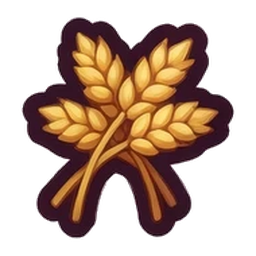
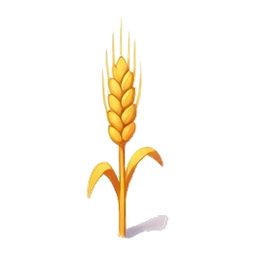
New hay chain: from a wheat sprout to rainbow hay, each step clearly different
Claude-Session: https://claude.ai/code/session_01897nNPNNgbcBnjh2hA5vTu

diff --git a/game.js b/game.js
@@ -463,7 +463,7 @@ const toastLayer = document.getElementById('toasts');
 // Flavor Names for the Tiers
 const NAMES = {
     'farm': ['🧪 Fertilizer', '🌱 Seed', '🌿 Sprout', '🍓 Strawberry', '🍅 Tomato', '🌽 Corn', '🥕 Carrot', '🥬 Cabbage', '🎃 Pumpkin', '🍉 Watermelon', '🍎 Golden Apple', '🌻 Giant Sun'],
-    'hay': ['🌾 Wheat', '🌱 Stalk', '🌾 Bundle', '🟨 Small Bale', '🟨 Medium Bale', '🟨 Large Bale', '🥞 Hay Stack', '🗼 Hay Tower', '🏭 Hay Silo', '⭐ Golden Hay', '✨ Magic Hay', '♾ Infinite Hay'],
+    'hay': ['🌱 Wheat Sprout', '🌾 Wheat Stalk', '🎀 Wheat Sheaf', '🟨 Hay Bale', '🟢 Round Bale', '🔶 Haystack', '🛒 Hay Cart', '🚜 Hay Wagon', '🌬 Windmill', '👑 Golden Hay', '🔮 Magic Hay', '🌈 Rainbow Hay'],
     'barn': ['🌿 Feed', '🥚 Egg', '🐤 Chick', '🐔 Chicken', '🐽 Piglet', '🐷 Pig', '🐮 Calf', '🐄 Cow', '🐴 Horse', '🦙 Alpaca', '🐂 Prize Bull', '🦄 Unicorn'],
     'fert': ['🍂 Fallen Leaf', '🍁 Leaf Pile', '🥕 Veggie Scraps', '🌱 Compost', '🪴 Rich Soil', '🍄 Mushroom', '✨ Basic Fert', '🌟 Quality Fert', '⚡ Speed-Gro', '💎 Deluxe Fert', '🔮 Magic Fert', '🌌 Iridium Fert'],
     'aqua': ['🌾 Fish Food', '🐌 Snail', '🐟 Minnow', '🐸 Frog', '🐠 Goldfish', '🎏 Koi', '🐢 Turtle', '🦦 Otter', '🦆 Duck', '🦢 Swan', '🦩 Flamingo', '🐉 Pond Dragon'],

diff --git a/assets.js b/assets.js
@@ -422,18 +422,18 @@ const ASSETS = {
         ],
         // Cut from assets/raw/items_hay.webp.
         hay: [
-            'assets/items/hay/00_wheat.png',
+            'assets/items/hay/00_sprout.png',
             'assets/items/hay/01_stalk.png',
-            'assets/items/hay/02_bundle.png',
-            'assets/items/hay/03_small_bale.png',
-            'assets/items/hay/04_medium_bale.png',
-            'assets/items/hay/05_large_bale.png',
-            'assets/items/hay/06_hay_stack.png',
-            'assets/items/hay/07_hay_tower.png',
-            'assets/items/hay/08_hay_silo.png',
+            'assets/items/hay/02_sheaf.png',
+            'assets/items/hay/03_bale.png',
+            'assets/items/hay/04_round_bale.png',
+            'assets/items/hay/05_haystack.png',
+            'assets/items/hay/06_cart.png',
+            'assets/items/hay/07_wagon.png',
+            'assets/items/hay/08_windmill.png',
             'assets/items/hay/09_golden_hay.png',
             'assets/items/hay/10_magic_hay.png',
-            'assets/items/hay/11_infinite_hay.png',
+            'assets/items/hay/11_rainbow_hay.png',
         ],
         // Cut from assets/raw/farm_chain_v3.webp.
         farm: [

diff --git a/ASSET_LIST.md b/ASSET_LIST.md
@@ -155,18 +155,18 @@ below it by its outline alone, bigger and fancier as it goes up; tiers 9-11 get 
 
 | | Tier | Item | File | Draw as |
 |---|---|---|---|---|
-| ✅ | 0 | Wheat | `assets/items/hay/00_wheat.png` |  |
-| ✅ | 1 | Stalk | `assets/items/hay/01_stalk.png` |  |
-| ✅ | 2 | Bundle | `assets/items/hay/02_bundle.png` |  |
-| ✅ | 3 | Small Bale | `assets/items/hay/03_small_bale.png` |  |
-| ✅ | 4 | Medium Bale | `assets/items/hay/04_medium_bale.png` |  |
-| ✅ | 5 | Large Bale | `assets/items/hay/05_large_bale.png` |  |
-| ✅ | 6 | Hay Stack | `assets/items/hay/06_hay_stack.png` |  |
-| ✅ | 7 | Hay Tower | `assets/items/hay/07_hay_tower.png` | a tall stack of hay bales |
-| ✅ | 8 | Hay Silo | `assets/items/hay/08_hay_silo.png` | a tiny silo full of hay |
+| ✅ | 0 | Wheat Sprout | `assets/items/hay/00_sprout.png` |  |
+| ✅ | 1 | Wheat Stalk | `assets/items/hay/01_stalk.png` |  |
+| ✅ | 2 | Wheat Sheaf | `assets/items/hay/02_sheaf.png` |  |
+| ✅ | 3 | Hay Bale | `assets/items/hay/03_bale.png` |  |
+| ✅ | 4 | Round Bale | `assets/items/hay/04_round_bale.png` |  |
+| ✅ | 5 | Haystack | `assets/items/hay/05_haystack.png` |  |
+| ✅ | 6 | Hay Cart | `assets/items/hay/06_cart.png` |  |
+| ✅ | 7 | Hay Wagon | `assets/items/hay/07_wagon.png` |  |
+| ✅ | 8 | Windmill | `assets/items/hay/08_windmill.png` |  |
 | ✅ | 9 | Golden Hay | `assets/items/hay/09_golden_hay.png` | a golden hay bale |
 | ✅ | 10 | Magic Hay | `assets/items/hay/10_magic_hay.png` | a hay bale with sparkles |
-| ✅ | 11 | Infinite Hay | `assets/items/hay/11_infinite_hay.png` | a glowing hay bale with an infinity ribbon |
+| ✅ | 11 | Rainbow Hay | `assets/items/hay/11_rainbow_hay.png` |  |
 
 ### Compost Yard
 
